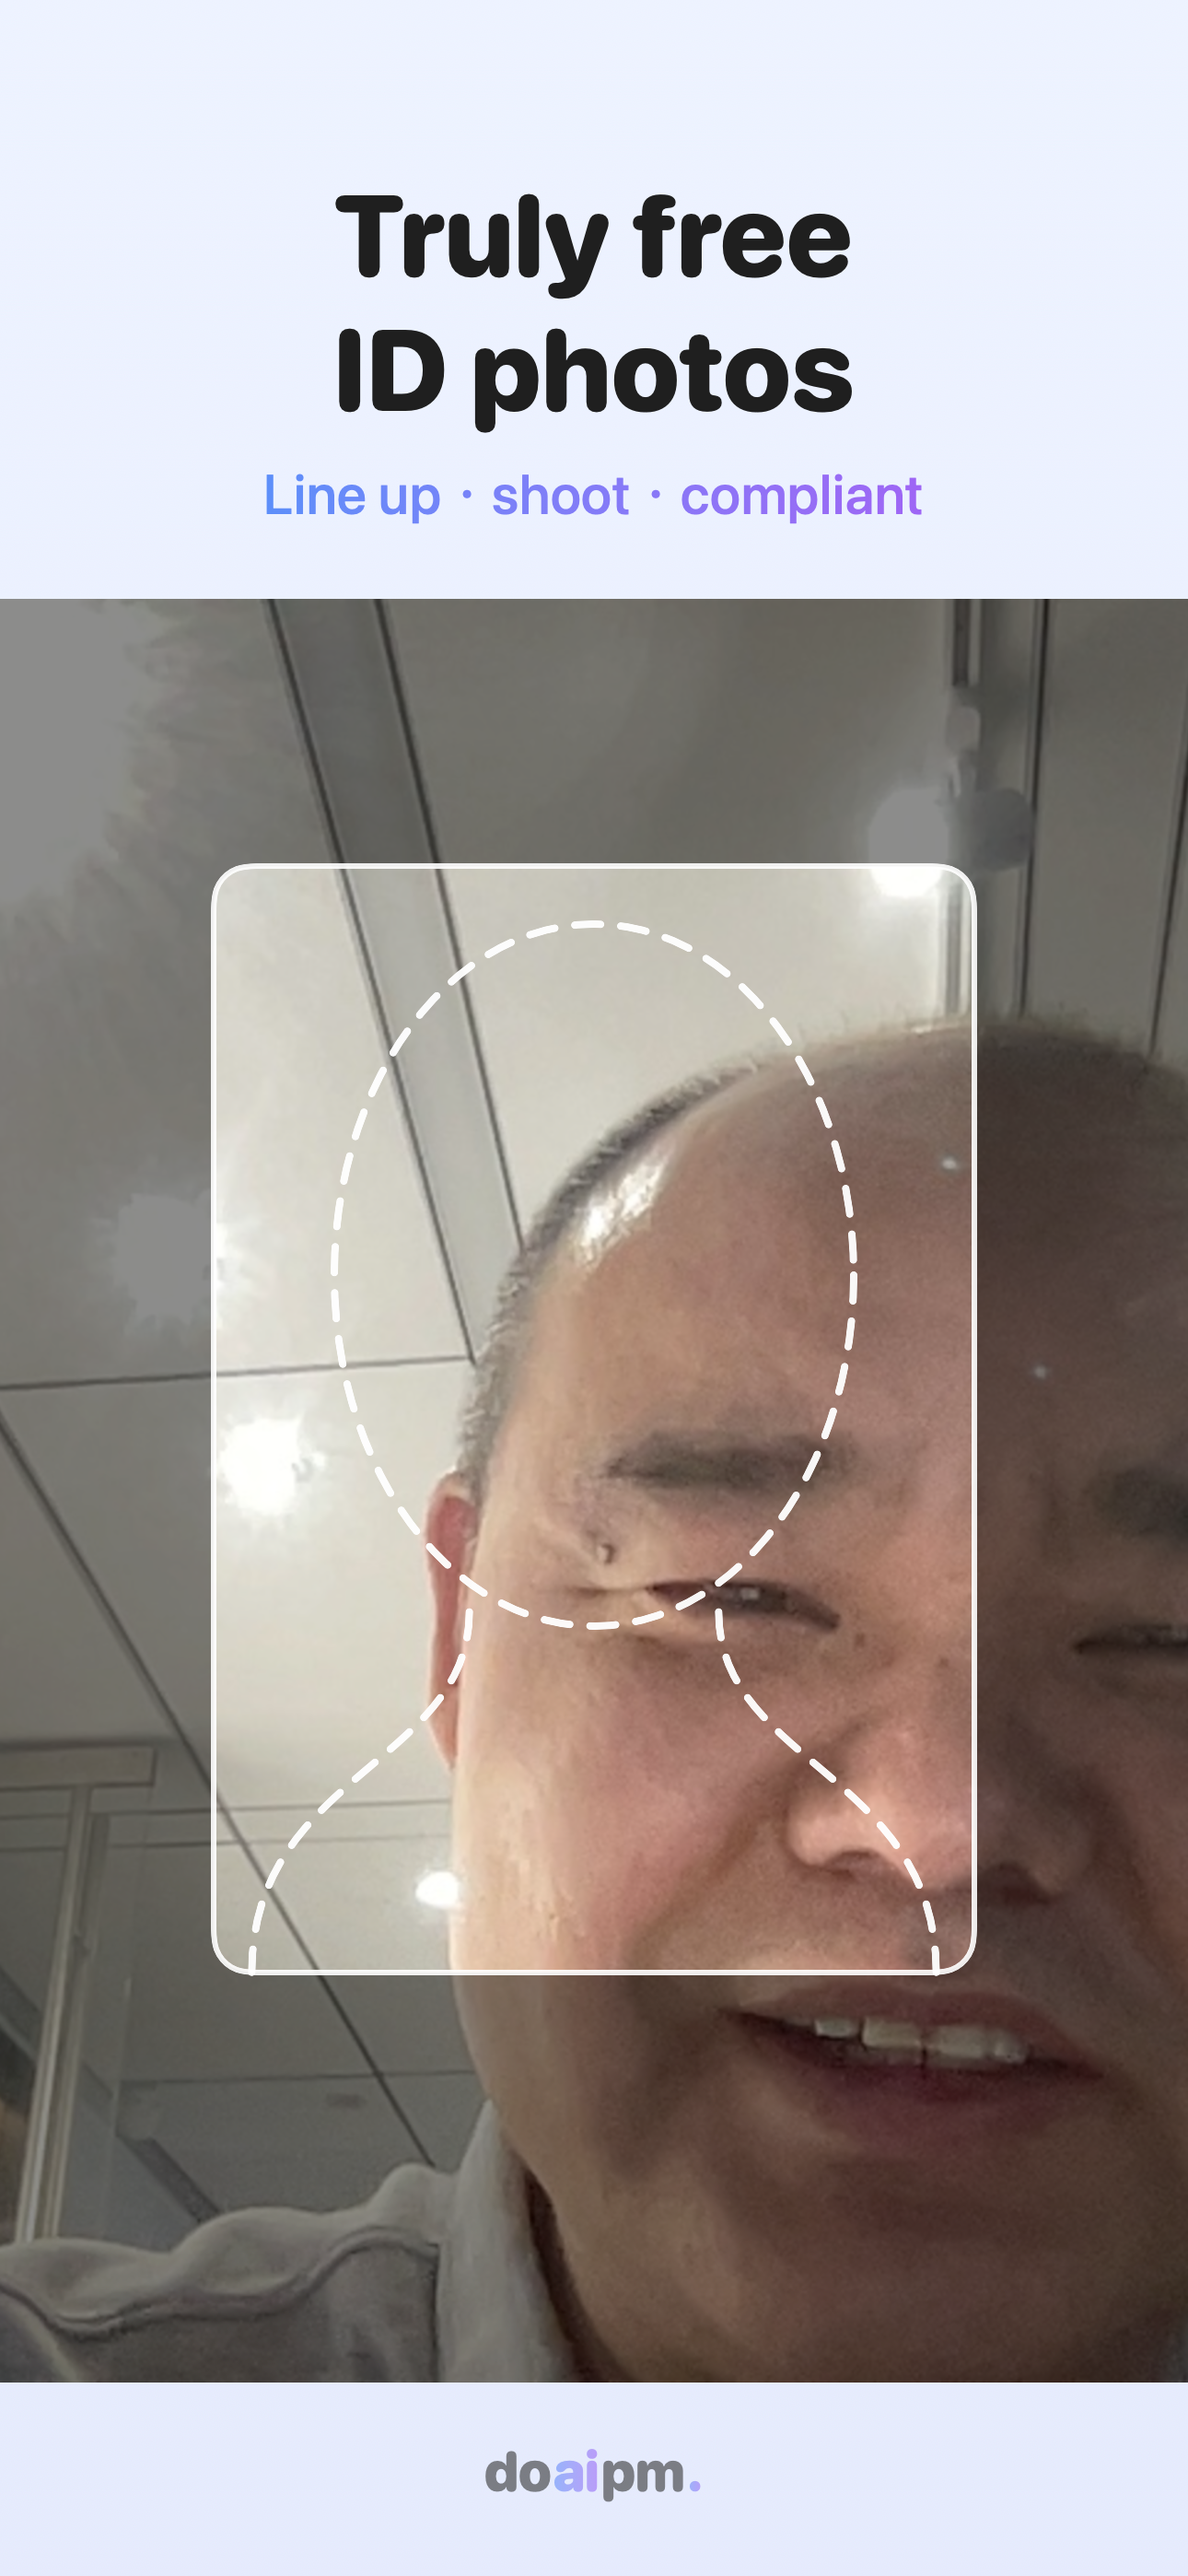
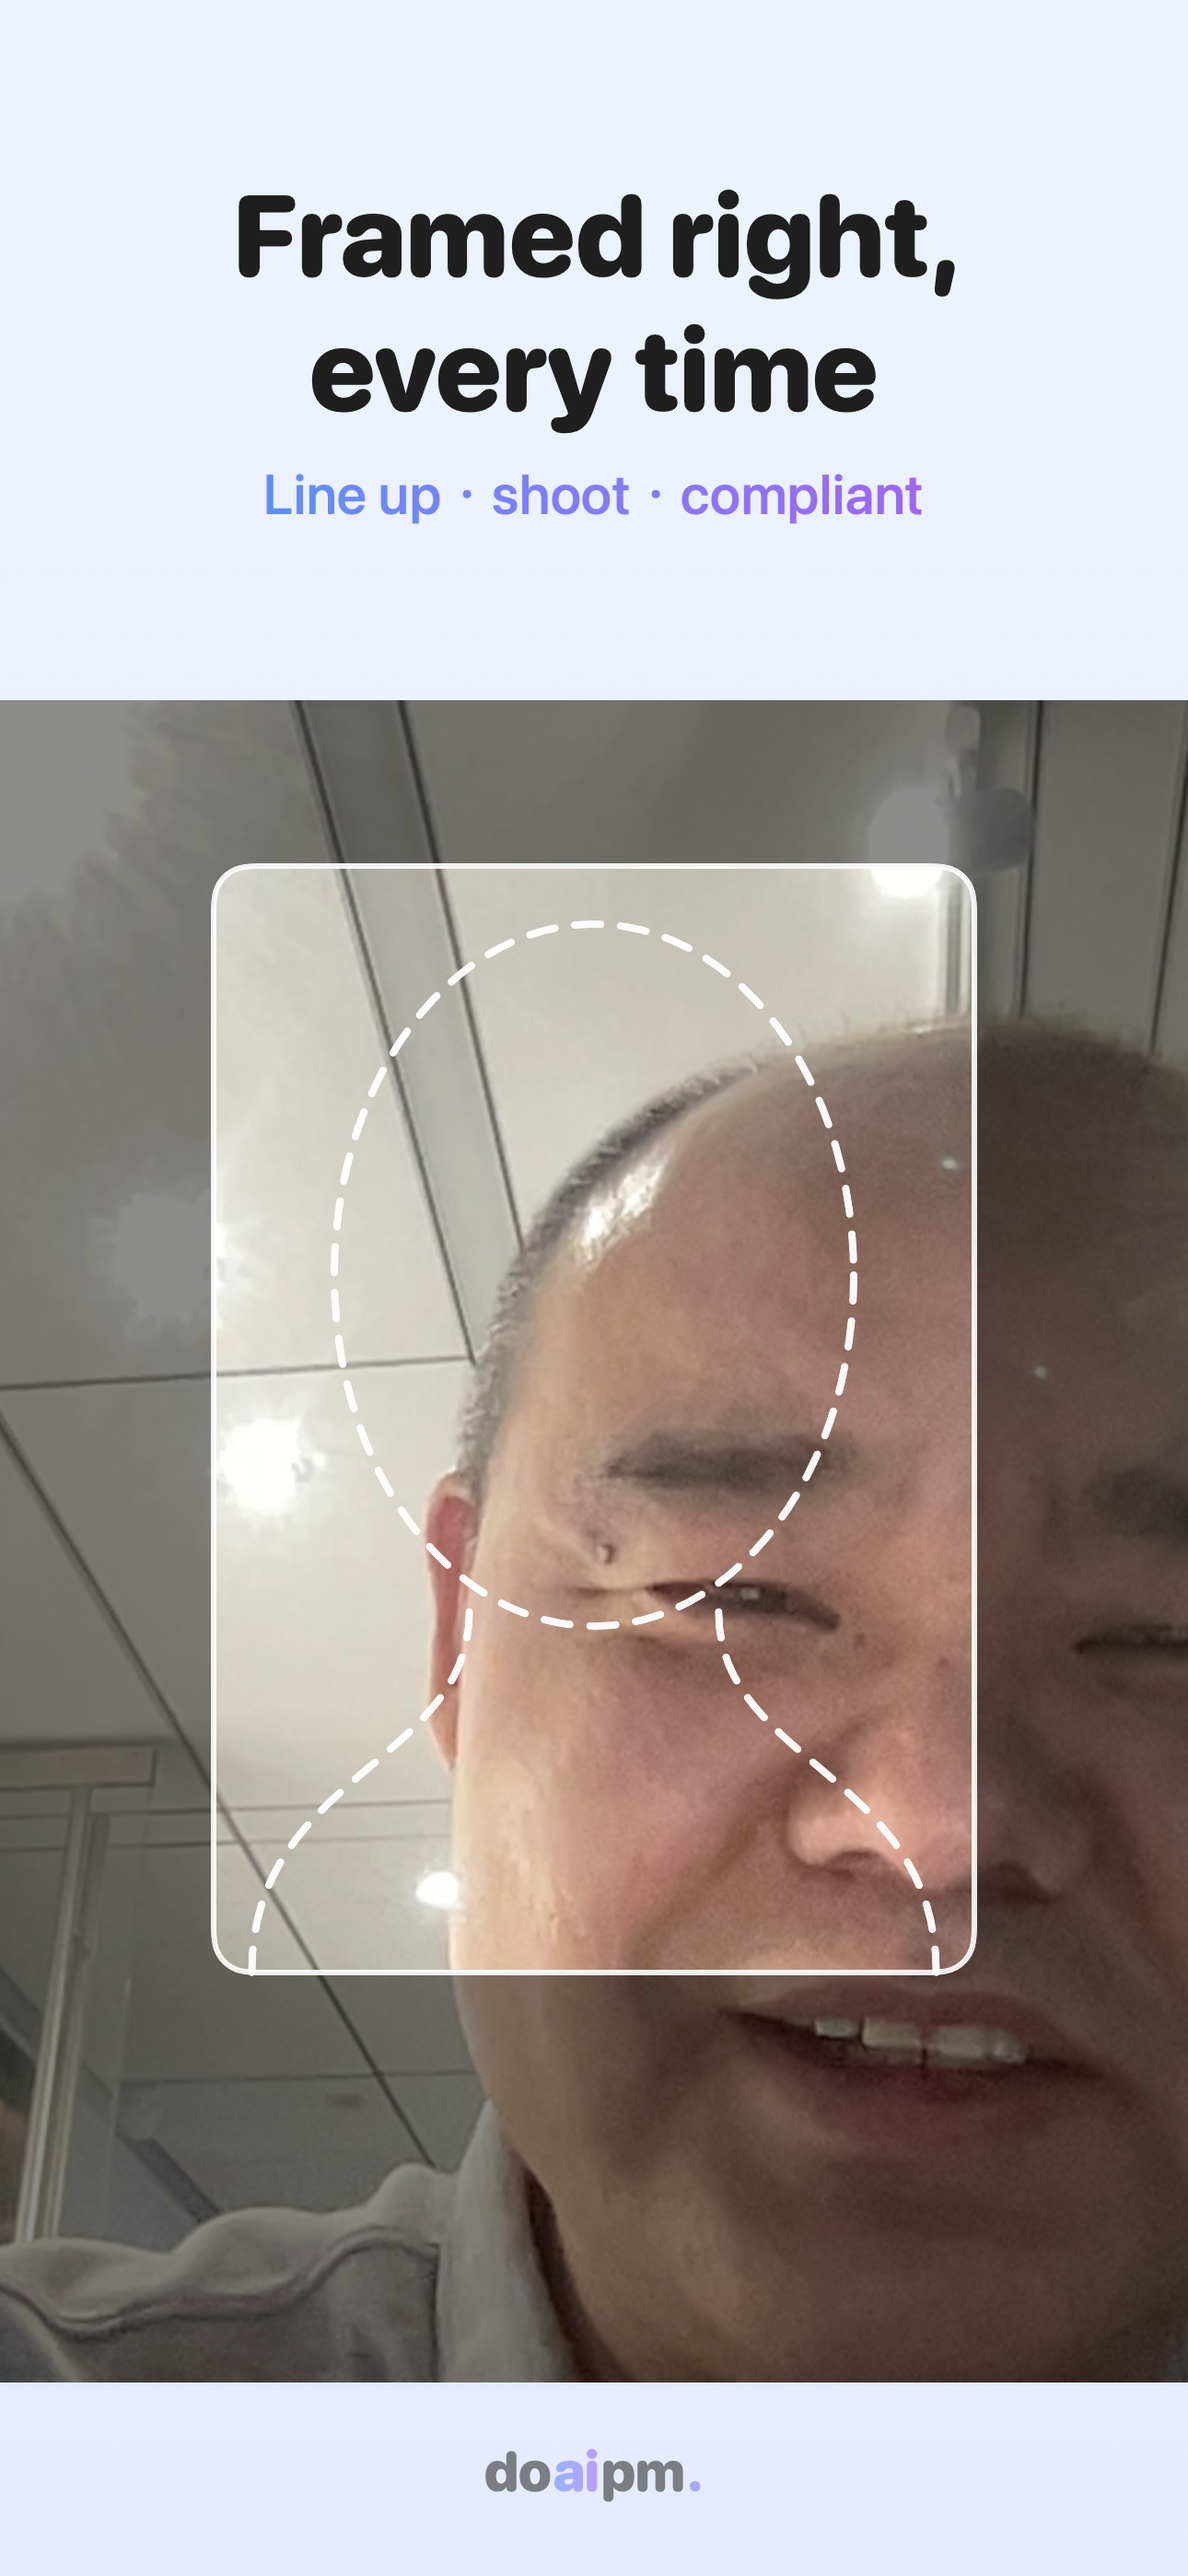
Resolve App Store rejection: face-data answers + remove price refs
Apple rejected v1.0 (build 15) on 2.1 (face data) and 2.3.7 (price refs).
Metadata-only fix, no new binary — resubmitted build 15.

2.1 Face data: add explicit "Face data / 人脸数据" section to privacy.html
(on-device Vision, never stored/shared/retained); the full 6-question answer
is in resubmit_fix.mjs reviewNotes (also posted to Resolution Center).

2.3.7 Accurate metadata: drop all price words (free/免费/…) from subtitle
(8 langs), keywords, promo, and descriptions in metadata.mjs; regenerate
screenshot #1 headline ("Truly free" → "Framed right" / "精准取景") via
fix_shot1.swift and update screenshots.swift to match.

New tooling: fix_shot1.swift (headline re-render), resubmit_fix.mjs
(metadata-only update + screenshot replace + review notes), submit.mjs
(API resubmit of the edited rejected version).

Changed region(s): [[0.0, 0.2178, 1.0, 0.28], [0.186, 0.0622, 0.8062, 0.1867]]

diff --git a/scripts/asc/fix_shot1.swift b/scripts/asc/fix_shot1.swift
@@ -1,0 +1,71 @@
+import SwiftUI
+import AppKit
+import CoreGraphics
+import ImageIO
+import UniformTypeIdentifiers
+
+// Re-renders ONLY the headline band of screenshot #1 to remove the price
+// reference ("Truly free" / "真正免费") flagged under App Store guideline 2.3.7.
+// The face/photo pixels below the band are copied verbatim from the original,
+// so the marketing image is unchanged except for the headline text.
+
+let brand = LinearGradient(colors:[Color(red:0.36,green:0.56,blue:0.98),Color(red:0.62,green:0.40,blue:0.96)],startPoint:.leading,endPoint:.trailing)
+let bg = LinearGradient(colors:[Color(red:0.93,green:0.95,blue:1.0),Color(red:0.90,green:0.92,blue:0.99)],startPoint:.top,endPoint:.bottom)
+
+// Same top layout as the original Shot (screenshots.swift), content/watermark dropped.
+struct TopShot: View {
+  let head:String; let sub:String
+  var body: some View {
+    ZStack { bg
+      VStack(spacing:0){
+        Spacer().frame(height:90)
+        Text(head).font(.system(size:62,weight:.heavy,design:.rounded)).foregroundStyle(Color(white:0.12)).multilineTextAlignment(.center).padding(.horizontal,40).fixedSize(horizontal:false,vertical:true)
+        Text(sub).font(.system(size:30,weight:.medium)).foregroundStyle(brand).padding(.top,14).multilineTextAlignment(.center).padding(.horizontal,40)
+        Spacer()
+      }
+    }.frame(width:645,height:1398)
+  }
+}
+
+let bandTopPx = 760  // rows [0, bandTopPx) replaced; face/photo starts below this
+
+func loadCG(_ p:String) -> CGImage {
+  let src = CGImageSourceCreateWithURL(URL(fileURLWithPath:p) as CFURL, nil)!
+  return CGImageSourceCreateImageAtIndex(src, 0, nil)!
+}
+
+@MainActor func render(_ v: some View) -> CGImage {
+  let r = ImageRenderer(content: v); r.scale = 2
+  return r.nsImage!.cgImage(forProposedRect: nil, context: nil, hints: nil)!
+}
+
+func writePNG(_ img: CGImage, _ p:String) {
+  let dst = CGImageDestinationCreateWithURL(URL(fileURLWithPath:p) as CFURL, UTType.png.identifier as CFString, 1, nil)!
+  CGImageDestinationAddImage(dst, img, nil)
+  CGImageDestinationFinalize(dst)
+  print("wrote", p)
+}
+
+@MainActor func fix(orig path:String, head:String, sub:String) {
+  let original = loadCG(path)
+  let W = original.width, H = original.height          // 1290 x 2796
+  let top = render(TopShot(head:head, sub:sub))        // 1290 x 2796 full render
+  // crop the band (top-left origin for CGImage cropping)
+  let band = top.cropping(to: CGRect(x:0,y:0,width:W,height:bandTopPx))!
+
+  let cs = CGColorSpaceCreateDeviceRGB()
+  let ctx = CGContext(data:nil,width:W,height:H,bitsPerComponent:8,bytesPerRow:0,
+                      space:cs,bitmapInfo:CGImageAlphaInfo.premultipliedLast.rawValue)!
+  // CG context origin is bottom-left.
+  ctx.draw(original, in: CGRect(x:0,y:0,width:W,height:H))
+  // place band at the TOP of the image
+  ctx.draw(band, in: CGRect(x:0, y:H-bandTopPx, width:W, height:bandTopPx))
+  let out = ctx.makeImage()!
+  writePNG(out, path)
+}
+
+MainActor.assumeIsolated {
+  let dir = CommandLine.arguments[1]
+  fix(orig: dir+"/ss_en_1.png", head:"Framed right,\nevery time", sub:"Line up · shoot · compliant")
+  fix(orig: dir+"/ss_zh_1.png", head:"精准取景\n合规证件照",        sub:"对准头肩 · 一拍即合规")
+}

diff --git a/scripts/asc/privacy.html b/scripts/asc/privacy.html
@@ -27,7 +27,7 @@
   <div class="tag">FreeID Photo · 真正免费的证件照拍摄</div>
 
   <h1>隐私政策</h1>
-  <p class="muted">最后更新:2026 年 6 月 15 日</p>
+  <p class="muted">最后更新:2026 年 6 月 30 日</p>
   <p>FreeID Photo(下称“本应用”)由 doaipm. 开发。一句话总结:<strong>本应用完全在你的设备本地运行,不收集、不上传、不分享任何个人数据。</strong></p>
 
   <h2>我们收集的信息</h2>
@@ -35,6 +35,9 @@
 
   <h2>相机与照片</h2>
   <p>本应用需要使用相机来拍摄你的证件照。所有图像处理(人脸检测、裁切、背景替换)均在你的设备上完成。<strong>你的照片不会被上传到任何服务器。</strong>成品仅在你主动点击“保存到相册”或“分享”时,才会写入你自己的相册或交给你选择的对象。</p>
+
+  <h2>人脸数据</h2>
+  <p>为了把你的头部摆正并裁切到证件规格,本应用会用 Apple 设备内置的 Vision 框架,在<strong>你的设备本地</strong>对当前照片做一次性的人脸检测,读取头顶、下巴、眼睛位置与头部角度等几何信息。<strong>这些人脸数据仅用于即时构图与裁切,不会被保存、不会生成任何人脸模板或生物特征向量、不会离开你的设备、也不会与任何第三方共享。</strong>照片处理完成后,这些测量值即被丢弃。本应用不会保留任何人脸数据。</p>
 
   <h2>数据存储</h2>
   <p>本应用不在云端存储任何数据。你保存的照片归你所有,存于你的设备相册中。</p>
@@ -48,7 +51,7 @@
   <hr>
 
   <h1>Privacy Policy</h1>
-  <p class="muted">Last updated: June 15, 2026</p>
+  <p class="muted">Last updated: June 30, 2026</p>
   <p>FreeID Photo (the “App”) is built by doaipm. In one line: <strong>the App runs entirely on your device and does not collect, upload, or share any personal data.</strong></p>
 
   <h2>Information we collect</h2>
@@ -56,6 +59,9 @@
 
   <h2>Camera &amp; photos</h2>
   <p>The App uses the camera to take your ID photo. All image processing (face detection, cropping, background replacement) happens on your device. <strong>Your photos are never uploaded to any server.</strong> A finished photo is written to your photo library or handed to a share target only when you explicitly tap “Save” or “Share.”</p>
+
+  <h2>Face data</h2>
+  <p>To position your head and crop to the document's spec, the App runs a one-time, <strong>on-device</strong> face detection using Apple's built-in Vision framework, reading geometry such as the top of the head, chin, eye positions, and head angle. <strong>This face data is used only for instant framing and cropping. It is never stored, never turned into a face template or biometric signature, never leaves your device, and is never shared with any third party.</strong> The measurements are discarded as soon as the photo is processed. The App retains no face data.</p>
 
   <h2>Data storage</h2>
   <p>The App stores no data in the cloud. Photos you save belong to you and live in your device’s photo library.</p>

diff --git a/scripts/asc/screenshots.swift b/scripts/asc/screenshots.swift
@@ -73,10 +73,10 @@ struct Shot<Content:View>:View{
 
 @MainActor func snap<X:View>(_ v:X,_ p:String){let r=ImageRenderer(content:v);r.scale=2;if let i=r.nsImage,let t=i.tiffRepresentation,let b=NSBitmapImageRep(data:t),let png=b.representation(using:.png,properties:[:]){try? png.write(to:URL(fileURLWithPath:p));print("wrote",p)}}
 MainActor.assumeIsolated{
-  snap(Shot("真正免费的\n证件照","对准头肩 · 一拍即合规"){GuideContent()},"/tmp/ss_zh_1.png")
+  snap(Shot("精准取景\n合规证件照","对准头肩 · 一拍即合规"){GuideContent()},"/tmp/ss_zh_1.png")
   snap(Shot("一键换底色","白 / 蓝 / 红 · 符合各国标准"){ColorsContent()},"/tmp/ss_zh_2.png")
   snap(Shot("10 国 · 16 种规格","全程本地处理 · 不上传"){SpecsContent()},"/tmp/ss_zh_3.png")
-  snap(Shot("Truly free\nID photos","Line up · shoot · compliant"){GuideContent()},"/tmp/ss_en_1.png")
+  snap(Shot("Framed right,\nevery time","Line up · shoot · compliant"){GuideContent()},"/tmp/ss_en_1.png")
   snap(Shot("Swap the\nbackground","White / Blue / Red · per spec"){ColorsContent()},"/tmp/ss_en_2.png")
   snap(Shot("10 countries\n16 specs","All on-device · nothing uploaded"){SpecsContent()},"/tmp/ss_en_3.png")
 }
